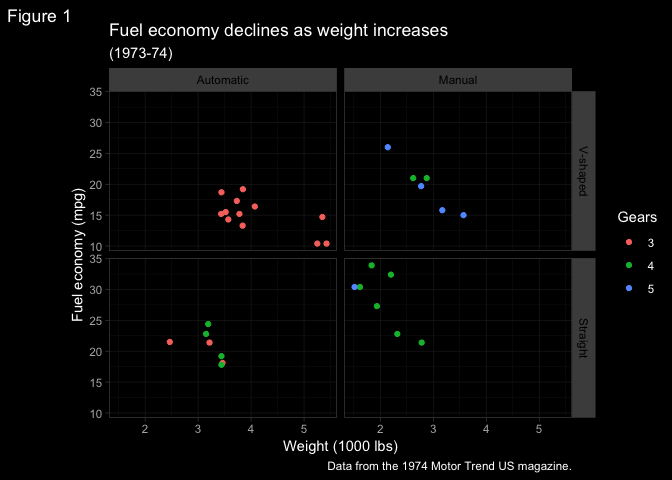
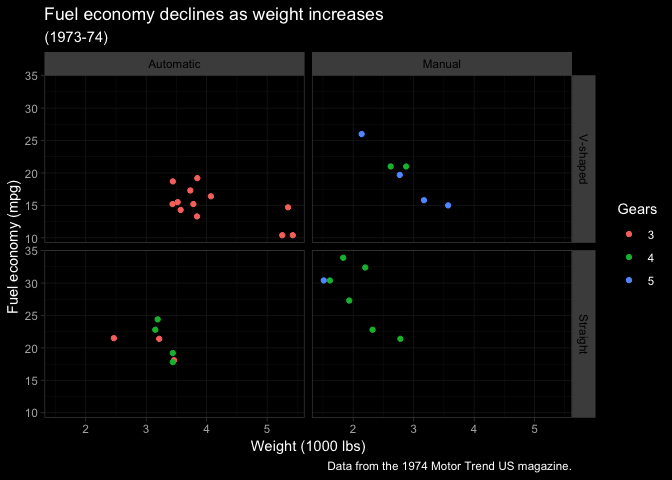
Update README

diff --git a/README.md b/README.md
@@ -22,7 +22,13 @@ Dark mode for ggplot2
 library(ggplot2)
 
 p <- ggplot(diamonds, aes(carat, price)) + 
-  geom_point(aes(color = cut))
+  geom_point(aes(color = cut)) + 
+  scale_y_continuous(label = scales::dollar) +
+  guides(color = guide_legend(reverse = TRUE)) +
+  labs(title = "Prices of 50,000 round cut diamonds by carat and cut",
+       x = "Weight (carats)",
+       y = "Price in US dollars",
+       color = "Quality of the cut")
 
 p + theme_gray()  # ggplot default
 ```
@@ -41,12 +47,16 @@ p + dark_theme_gray()  # the dark version
 
 ``` r
 # modify the theme to your liking, as you would in ggplot2
-p + dark_theme_gray(base_family = "Arial Narrow", base_size = 14) + 
-  theme(plot.background = element_rect(fill = "grey20"),
+p + dark_theme_gray(base_family = "Fira Sans Condensed Light", base_size = 14) + 
+  theme(plot.title = element_text(family = "Fira Sans Condensed"),
+        plot.background = element_rect(fill = "grey10"),
         panel.background = element_blank(),
+        panel.grid.major = element_line(color = "grey30", size = 0.2),
+        panel.grid.minor = element_line(color = "grey30", size = 0.2),
         legend.background = element_blank(),
+        axis.ticks = element_blank(),
         legend.key = element_blank(),
-        legend.position = c(0.85, 0.2))
+        legend.position = c(0.815, 0.27))
 ```
 
 ![](man/figures/add-element-1.png)
@@ -72,7 +82,6 @@ p <- ggplot(mtcars2) +
        caption = "Data from the 1974 Motor Trend US magazine.",
        x = "Weight (1000 lbs)",
        y = "Fuel economy (mpg)",
-       tag = "Figure 1",
        colour = "Gears")
 ```
 
@@ -124,10 +133,10 @@ p + dark_theme_void()
 
 ![](man/figures/all-themes-8.png)
 
-Dark mode on any theme
-----------------------
+Make your own dark theme
+------------------------
 
-Any theme can have its dark mode activated with `dark_mode`. Here we apply it to themes from the `ggthemes` and `hrbrthemes` packages.
+Use`dark_mode` on any theme to create its dark version.
 
 ``` r
 update_geom_colors()
@@ -135,10 +144,14 @@ update_geom_colors()
 
 p <- ggplot(iris, aes(Sepal.Width, Sepal.Length)) +
   geom_point() +
-  facet_wrap(~ Species)
+  facet_wrap(~ Species) +
+  labs(title = "Iris virginica shows the greatest variation in sepal size",
+       y = "Length of sepal (cm)",
+       x = "Width of sepal (cm)")
 ```
 
 ``` r
+# install.packages("ggthemes")
 library(ggthemes)
 
 p + theme_fivethirtyeight()
@@ -147,8 +160,8 @@ p + theme_fivethirtyeight()
 ![](man/figures/fivethirtyeight-1.png)
 
 ``` r
-p + dark_mode(theme_fivethirtyeight())
-#> Geom defaults updated to fill = 'white', color = 'white'.
+p + dark_mode(theme_fivethirtyeight(), geom_color = "purple")  # custom geom color
+#> Geom defaults updated to fill = 'white', color = 'purple'.
 #> To restore the original values, use update_geom_colors().
 ```
 
@@ -160,6 +173,7 @@ update_geom_colors()
 ```
 
 ``` r
+# install.packages("hrbrthemes")
 library(hrbrthemes)
 #> NOTE: Either Arial Narrow or Roboto Condensed fonts are *required* to use these themes.
 #>       Please use hrbrthemes::import_roboto_condensed() to install Roboto Condensed and
@@ -171,22 +185,14 @@ p + theme_ipsum_rc()
 ![](man/figures/ipsum-rc-1.png)
 
 ``` r
-p + dark_mode(theme_ipsum_rc(), geom_color = "grey80")  # custom geom color
-#> Geom defaults updated to fill = 'white', color = 'white'.
-#> To restore the original values, use update_geom_colors().
+p + dark_mode(theme_ipsum_rc(), verbose = FALSE)  # do not print update messages
 ```
 
 ![](man/figures/dark-ipsum-rc-1.png)
 
 ``` r
-update_geom_colors()
-#> Geom defaults updated to fill = 'black', color = 'black'.
+update_geom_colors(verbose = FALSE)  # do not print update messages
 ```
-
-License
--------
-
-MIT + file LICENSE
 
 ------------------------------------------------------------------------
 
